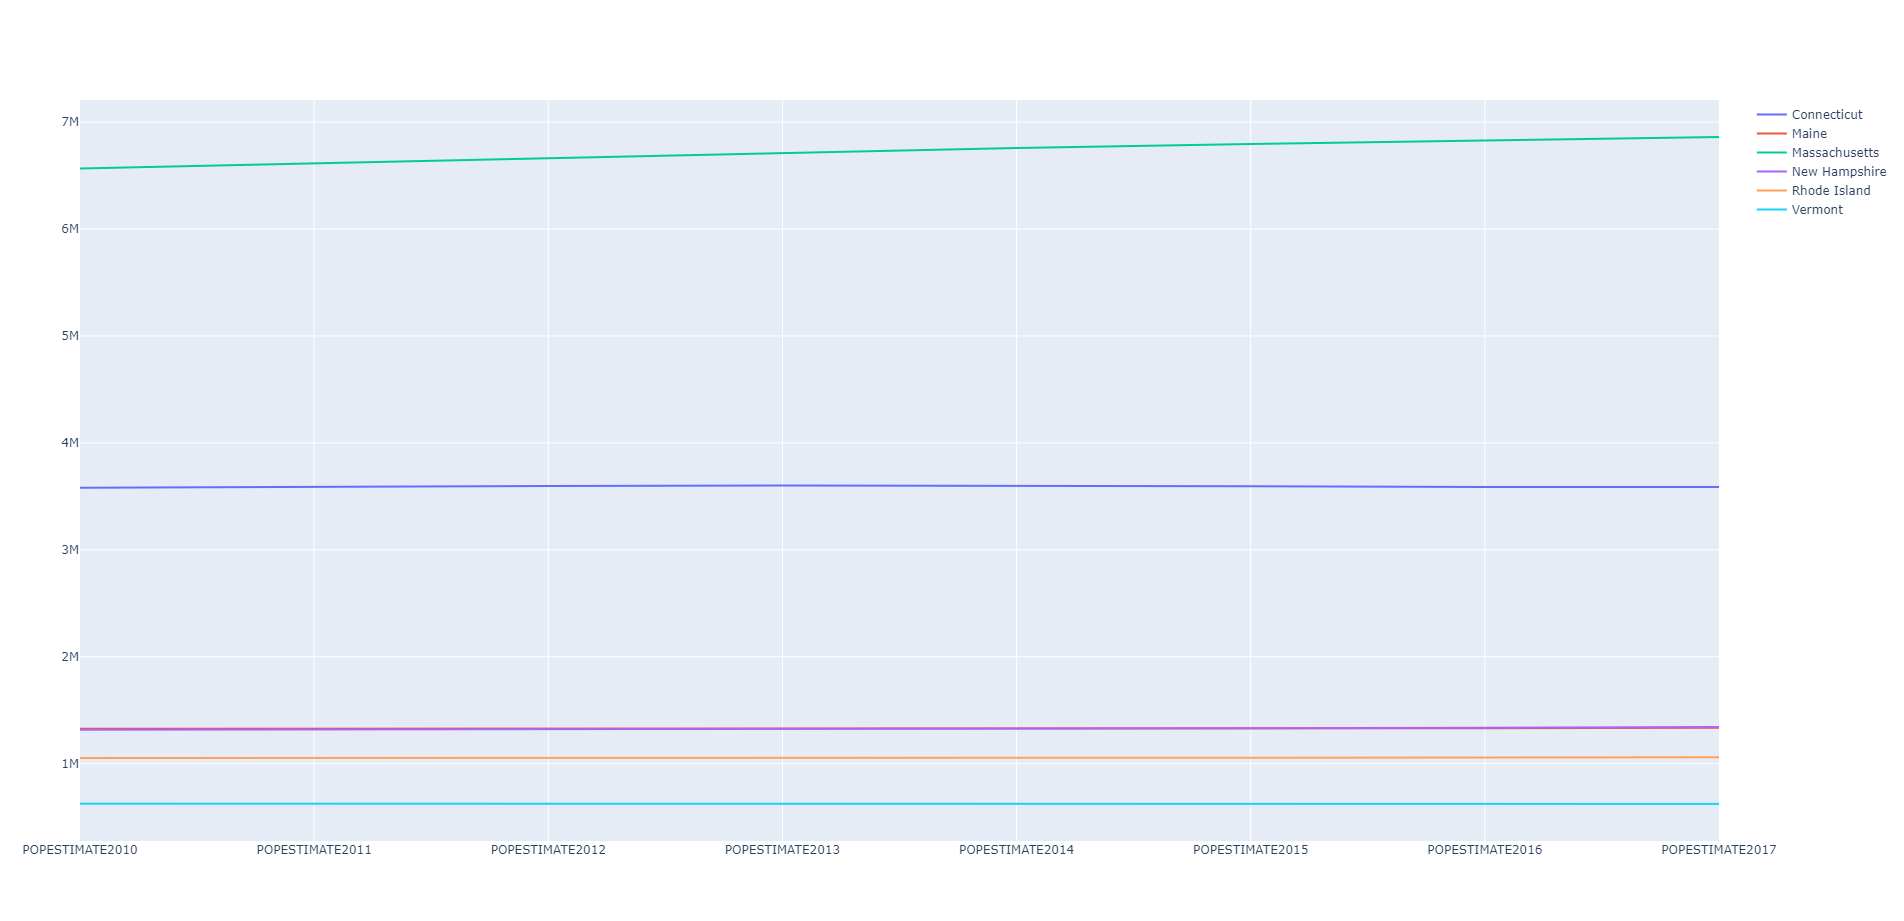
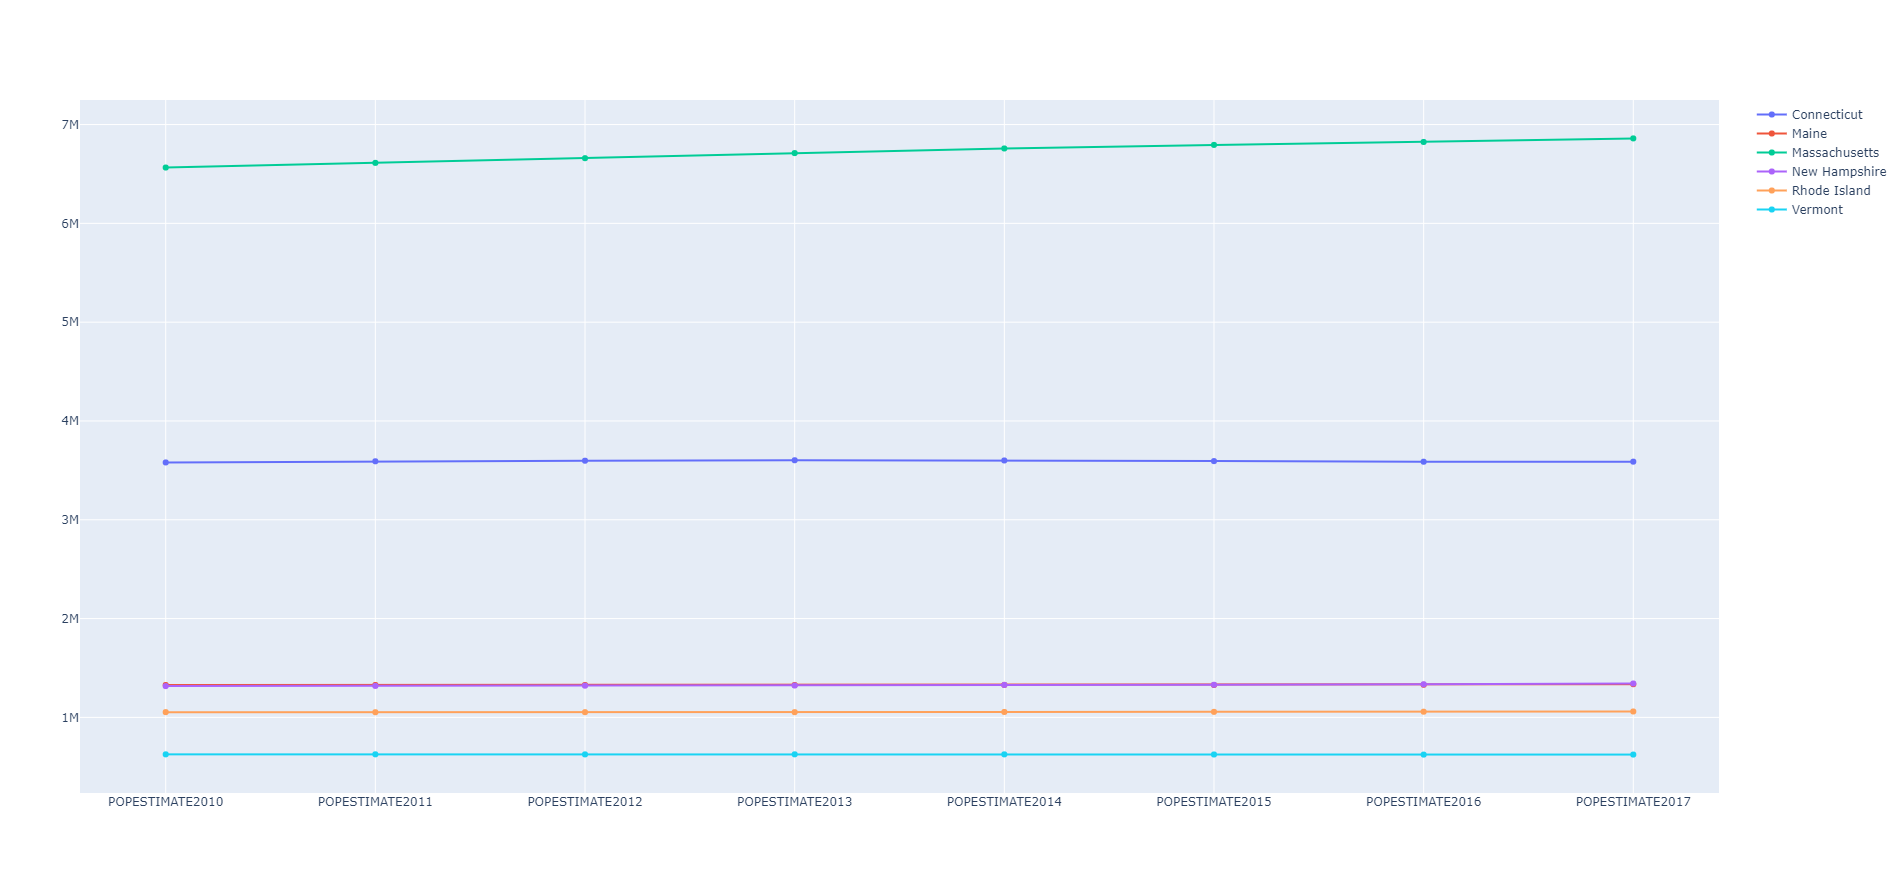
Day78 of # 100DaysOfCode

diff --git a/Python/plotly4.py b/Python/plotly4.py
@@ -21,6 +21,6 @@ df2 = df2[[col for col in df2.columns if col.startswith('POP')]]
 
 data = [go.Scatter(x=df2.columns,
                    y=df2.loc[name],
-                   mode='lines',
+                   mode='markers+lines',
                    name=name) for name in df2.index]
 pyo.plot(data, filename='data/plotlyPlots/plotly4.html')

diff --git a/Python/plotly5.py b/Python/plotly5.py
@@ -1,0 +1,7 @@
+import plotly.express as px
+import plotly.offline as pyo
+
+df = px.data.iris()
+fig = px.scatter(df, x="sepal_width", y="sepal_length", color="species", marginal_y="violin",
+                 marginal_x="box", trendline="ols", template="simple_white")
+pyo.plot(fig, filename='data/plotlyPlots/plotly5.html')
